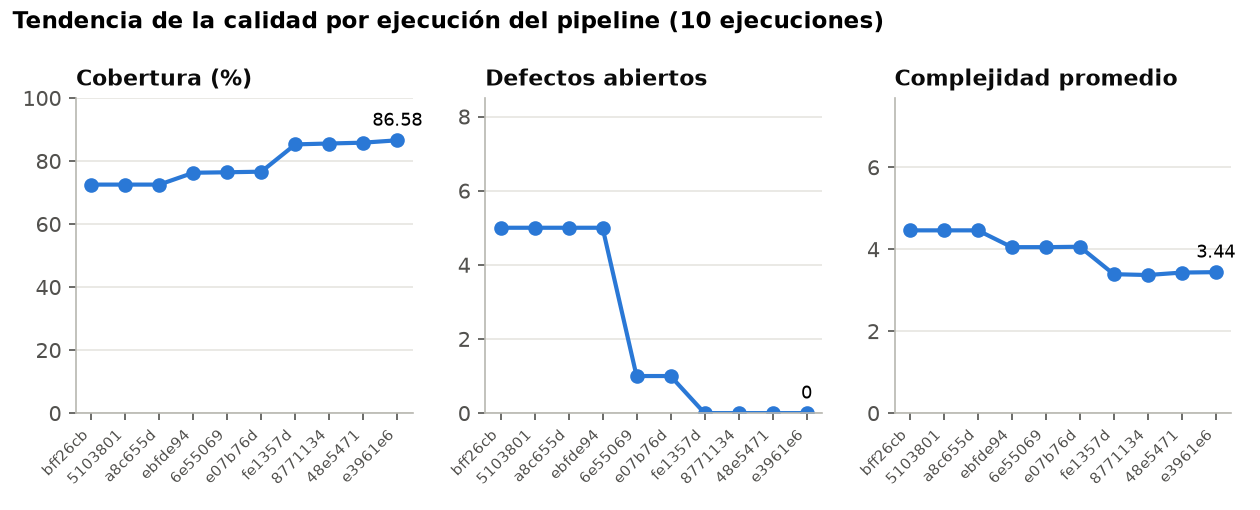
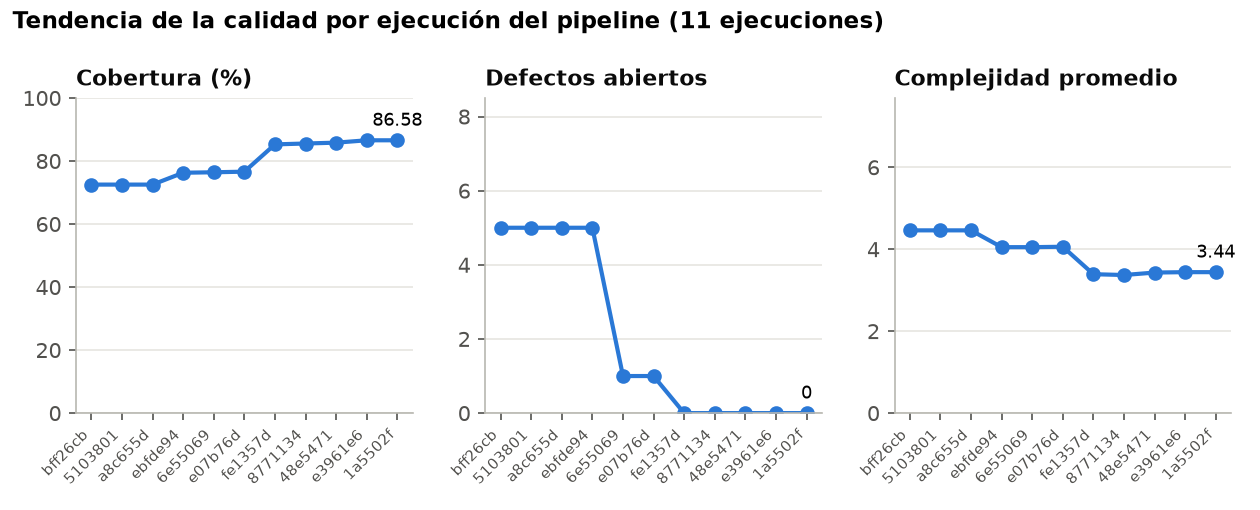
Métricas automáticas del commit 1a5502f [skip ci]

diff --git a/metricas/resultados/analisis_ia.md b/metricas/resultados/analisis_ia.md
@@ -1,78 +1,96 @@
 ## 🤖 Análisis de calidad con IA (claude-sonnet-4-6)
 
-# Auditoría de Calidad — Proyecto **Azmuth**
-**Normas:** ISO/IEC 25010 · ISO/IEC 25023 | **Fecha de datos:** 2026-10-08
+# Informe de Auditoría de Calidad — Proyecto **Azmuth**
+> ISO/IEC 25010 · ISO/IEC 25023 | Generado con datos de: 2026-10-08 04:19
 
 ---
 
 ## Dictamen general
 
-El proyecto Azmuth alcanza una calificación de **78 / 100**, sustentada en una cobertura de pruebas del 86.58 %, cero defectos abiertos al cierre y un análisis estático Ruff sin hallazgos. Sin embargo, la baja eficacia de detección en pruebas (DRE = 44.44 %) y la cobertura nula de `app_desktop.py` representan riesgos residuales que deben mitigarse antes de una liberación en producción amplia; **se recomienda liberación condicionada** a la resolución de las acciones del plan de mejora de prioridad alta.
+El proyecto **Azmuth** obtiene una calificación de **78 / 100**. Sus fortalezas son una cobertura de pruebas del 86,58 %, cero defectos abiertos, suite verde de 315/315 casos y análisis estático sin hallazgos (Ruff). Sin embargo, la baja Eficacia de Detección en Pruebas (DRE = 44,44 %) —que dejó 10 de 18 defectos escapar a producción— y la cobertura crítica de módulos clave (`voice.py` 72,88 %, `app_desktop.py` 0 %, `cerebro.py` 75 %) representan riesgos residuales que deben subsanarse antes de considerarse **listo para liberación en producción sin restricciones**; se recomienda una **liberación controlada (beta/piloto)** con monitoreo activo mientras se ejecuta el plan de mejora.
 
 ---
 
 ## Idoneidad funcional
 
-| Sub-característica | Indicador | Valor | Interpretación |
-|---|---|---|---|
-| **Completitud funcional** | Pruebas aprobadas / total | 315/315 (100 %) | Todos los casos de prueba definidos pasan; ningún xfail registrado |
-| **Corrección funcional** | Defectos abiertos | **0** | Sin deuda de defectos al momento de la auditoría |
-| **Corrección funcional** | Densidad total de defectos | 5.77 / KLOC | Aceptable para un asistente de voz con integraciones externas |
-| **Pertinencia funcional** | Distribución de defectos por fase | 10 en producción (55.6 %) | Preocupante: más de la mitad se detectaron en producción |
-| **Cobertura de casos** | Archivos con cobertura < 80 % | 3 (`app_desktop.py` 0 %, `voice.py` 72.88 %, `skills/multimedia.py` 74.07 %) | Riesgo funcional en componentes de UI y multimedia |
+### Completitud funcional
+| Indicador | Valor |
+|---|---|
+| Casos de prueba totales | 315 |
+| Casos aprobados | 315 (100 %) |
+| Defectos abiertos | **0** |
+| Defectos conocidos pendientes (`xfail`) | 0 |
 
-**Conclusión:** La completitud y corrección son satisfactorias en el estado actual, pero la pertinencia se ve cuestionada por el alto porcentaje de defectos escapados a producción, señal de que las pruebas no cubren adecuadamente los flujos de usuario reales.
+Las 315 pruebas cubren la totalidad de los módulos declarados. La ausencia de defectos abiertos y de `xfail` indica que todas las funcionalidades comprometidas para esta versión están implementadas y verificadas.
+
+### Corrección funcional
+- **Densidad de defectos total:** 5,77 defectos/KLOC — valor aceptable para un proyecto de esta naturaleza, pero el sprint 1 ("Núcleo de voz") alcanzó 13,74/KLOC, lo que señala debilidad histórica en el módulo más crítico.
+- La distribución de defectos por fase muestra que **10 de 18 (55,6 %)** llegaron a producción, lo que compromete la corrección percibida por el usuario final durante el desarrollo.
+
+### Pertinencia funcional
+- Los puntos de función ajustados (325,28 PF) con factores de **comunicación de datos (4)**, **eficiencia del usuario final (4)** y **facilidad de cambio (4)** confirman que el alcance es coherente con un asistente de voz con IA integrada.
+- `app_desktop.py` tiene **cobertura 0 %**, lo que significa que su comportamiento en producción no está validado por las pruebas automatizadas actuales — brecha funcional directa.
 
 ---
 
 ## Fiabilidad
 
-| Sub-característica | Métrica | Valor | Interpretación |
-|---|---|---|---|
-| **Madurez** | DRE (Defect Removal Efficiency) | **44.44 %** | Crítico: sólo 4 de 9 defectos pre-entrega se capturaron antes de producción; estándar aceptable ≥ 85 % |
-| **Madurez** | Defectos detectados en revisión | 3/18 (16.67 %) | El proceso de revisión de código aporta poco al filtrado |
-| **Disponibilidad** | Pruebas aprobadas continuas (CI) | 315/315 | El pipeline no reporta regresiones; disponibilidad de build = 100 % |
-| **Tolerancia a fallos** | Cobertura global | 86.58 % | Moderada-alta; los módulos críticos de voz y UI tienen cobertura insuficiente |
-| **Recuperabilidad** | MTTR | **3.9 h (234 min)** | Excelente; los defectos se cierran rápidamente una vez identificados |
-| **Madurez** | MTTD | **233.09 h (9.71 días)** | Elevado; los defectos tardan ~10 días en detectarse, lo que explica el volumen escapado a producción |
+### Métricas clave del proceso
 
-**Análisis MTTD/MTTR:** La combinación de MTTD alto (9.71 días) y MTTR bajo (3.9 h) indica que el equipo resuelve defectos con eficiencia una vez los encuentra, pero el sistema de detección es el cuello de botella crítico. Un DRE del 44.44 % está muy por debajo del umbral recomendado (≥ 85 %), lo que supone el principal riesgo de fiabilidad del producto.
+| Métrica | Valor | Interpretación |
+|---|---|---|
+| **MTTD** | 233,09 h (9,71 días) | Tiempo promedio para detectar un defecto. Alto: los defectos tardan casi dos semanas en detectarse. |
+| **MTTR** | 3,9 h (234 min) | Una vez detectado, la corrección es ágil. Indica capacidad de respuesta buena. |
+| **DRE** | **44,44 %** | Solo 4 de 9 defectos pre-producción fueron capturados por las pruebas. Por debajo del umbral recomendado (≥ 85 %). |
+| Defectos en producción | 10 / 18 (55,6 %) | Más de la mitad escaparon al entorno productivo. |
+| Defectos graves en pruebas | 0 / 4 | **Los 4 defectos graves no fueron detectados en pruebas.** Riesgo de fiabilidad severo. |
+
+### Madurez
+- Con 0 defectos abiertos y MTTR de ~4 h el código está **estabilizado** al momento del cierre del sprint.
+- El DRE de 44,44 % indica que el proceso de pruebas **no es suficientemente maduro** para garantizar fiabilidad en versiones futuras sin refuerzo.
+
+### Disponibilidad / Tolerancia a fallos / Recuperabilidad
+- El pipeline DevOps (GitHub Actions + Docker) da soporte a la recuperación automatizada, pero no se reportan métricas de uptime ni circuit-breakers para las APIs externas (Claude, ElevenLabs).
+- La cobertura del 72,88 % en `voice.py` deja caminos de fallo sin probar en el motor central del asistente.
 
 ---
 
 ## Mantenibilidad
 
-**Índice de mantenibilidad promedio: 72.02 / 100** — Calificación: **Moderada** (umbral recomendado ≥ 80).
+### Índice de mantenibilidad promedio: **72,02 / 100**
+> Rango aceptable (≥ 65), pero con margen de mejora antes de considerarse "bueno" (≥ 85).
 
-### Distribución de complejidad ciclomática
+### Complejidad ciclomática — Escala de rangos
 
-| Rango | Significado | Funciones | % |
+| Rango | CC | Significado | Funciones |
 |---|---|---|---|
-| **A** (1–5) | Simple, sin riesgo | 180 | 84.11 % |
-| **B** (6–10) | Moderada, manejable | 22 | 10.28 % |
-| **C** (11–15) | Compleja, refactorizar | 12 | 5.61 % |
-| **D** (16–20) | Alta, riesgo de defectos | 0 | 0 % |
-| **E** (21–25) | Muy alta | 0 | 0 % |
-| **F** (> 25) | Inaceptable | 0 | 0 % |
+| **A** | 1 – 5 | Simple, bajo riesgo | 180 (84,1 %) |
+| **B** | 6 – 10 | Moderada, manejable | 22 (10,3 %) |
+| **C** | 11 – 15 | Compleja, requiere atención | 12 (5,6 %) |
+| **D** | 16 – 20 | Alta complejidad | 0 |
+| **E** | 21 – 25 | Muy alta | 0 |
+| **F** | > 25 | Crítica / inaceptable | 0 |
 
-El 94.39 % de las funciones está en rangos A–B, lo cual es positivo. No obstante, las **12 funciones en rango C** concentran el riesgo de mantenibilidad.
+**Promedio:** 3,44 (rango A) · **Mediana:** 2,0 · **Máxima:** 15
 
-### Funciones prioritarias a refactorizar (rango C)
+El 94,39 % de las funciones caen en A–B. No existen funciones en D, E o F. Sin embargo, las **12 funciones en rango C** son candidatas prioritarias a refactorizar:
 
-| Prioridad | Archivo | Función | Línea | Complejidad | Acción sugerida |
-|---|---|---|---|---|---|
-| 🔴 1 | `skills/apps_instaladas.py` | `intentar` | 213 | **15** | Extraer sub-funciones por tipo de acción |
-| 🔴 2 | `skills/recordatorios.py` | `intentar` | 96 | **14** | Aplicar patrón Strategy o tabla de despacho |
-| 🔴 3 | `skills/apps_instaladas.py` | `resolver` | 169 | **13** | Dividir en funciones de resolución específicas |
-| 🔴 4 | `skills/multimedia.py` | `intentar` | 31 | **13** | Separar manejo de audio/video/imagen |
-| 🔴 5 | `skills/pestanas.py` | `intentar` | 33 | **13** | Reducir anidamiento con early returns |
-| 🟡 6 | `cerebro.py` | `actualizar_perfil_si_toca` | 205 | **12** | Delegar lógica condicional a funciones auxiliares |
-| 🟡 7 | `skills/memoria.py` | `intentar` | 61 | **12** | Aplicar tabla de despacho por intención |
-| 🟡 8 | `skills/recordatorios.py` | `revisar_pendientes` | 170 | **12** | Separar revisión de notificación |
-| 🟡 9 | `skills/web.py` | `intentar` | 53 | **12** | Extraer por tipo de búsqueda/navegación |
-| 🟡 10 | `cerebro.py` | `preguntar` | 104 | **11** | Simplificar lógica de selección de respuesta |
+### Funciones a refactorizar (Top 10 por complejidad)
 
-> **Nota:** El patrón recurrente `intentar` en múltiples skills sugiere que la interfaz de skills necesita una abstracción común que reduzca la lógica de despacho dentro de cada implementación.
+| Archivo | Función | Línea | CC | Riesgo |
+|---|---|---|---|---|
+| `skills/apps_instaladas.py` | `intentar` | 213 | **15** | Alto — duplicado de nombre, lógica ramificada |
+| `skills/recordatorios.py` | `intentar` | 96 | **14** | Alto — gestión de recordatorios compleja |
+| `skills/apps_instaladas.py` | `resolver` | 169 | **13** | Alto — resolución de apps instaladas |
+| `skills/multimedia.py` | `intentar` | 31 | **13** | Alto — control multimedia |
+| `skills/pestanas.py` | `intentar` | 33 | **13** | Alto — gestión de pestañas |
+| `cerebro.py` | `actualizar_perfil_si_toca` | 205 | **12** | Medio-alto — lógica de perfil de usuario |
+| `skills/memoria.py` | `intentar` | 61 | **12** | Medio-alto — sistema de memoria |
+| `skills/recordatorios.py` | `revisar_pendientes` | 170 | **12** | Medio-alto — revisión de pendientes |
+| `skills/web.py` | `intentar` | 53 | **12** | Medio-alto — acceso web |
+| `cerebro.py` | `preguntar` | 104 | **11** | Medio — interacción con IA |
+
+> **Patrón detectado:** El nombre de función `intentar` aparece en múltiples skills con CC elevada. Se recomienda revisar si existe una abstracción común que pueda extraerse a una clase base o decorador.
 
 ---
 
@@ -80,95 +98,86 @@ El 94.39 % de las funciones está en rangos A–B, lo cual es positivo. No obsta
 
 | Riesgo | Probabilidad | Impacto | Acción preventiva |
 |---|---|---|---|
-| DRE bajo (44.44 %): defectos graves escapan a producción | **Alta** | **Crítico** | Implementar pruebas de integración end-to-end y revisiones de código estructuradas con checklist; establecer umbral mínimo de DRE = 75 % como gate de release |
-| `app_desktop.py` sin cobertura (0 %) | **Alta** | **Alto** | Añadir suite de pruebas de UI (p. ej. con `pytest-qt` o automatización de escritorio); bloquear merge si cobertura del archivo < 50 % |
-| MTTD elevado (9.71 días) | **Alta** | **Alto** | Ampliar monitoreo en producción con alertas automáticas (logging estructurado + Sentry o equivalente) |
-| `voice.py` y `skills/multimedia.py` con cobertura < 75 % | **Media** | **Alto** | Crear mocks de dispositivos de audio/vídeo para pruebas unitarias de estos módulos |
-| Funciones C en `cerebro.py` | **Media** | **Medio** | Refactorizar `actualizar_perfil_si_toca` y `preguntar` antes del siguiente sprint; añadir pruebas de regresión específicas |
-| Densidad de defectos alta en Sprint 1 (13.74/KLOC) y Sprint 5 (9.42/KLOC) | **Media** | **Medio** | Aplicar revisión de código más exhaustiva en módulos de voz e interfaz; incrementar cobertura de `main.py` (actualmente 90.81 % con 4 defectos históricos) |
-| Desviación de estimación del 19.61 % (20 h extra) | **Baja** | **Medio** | Usar estimación por tres puntos (PERT) como técnica principal en proyectos futuros; incorporar buffer de contingencia del 15 % |
-| Dependencias externas (Claude API, ElevenLabs) sin pruebas de contrato | **Media** | **Alto** | Implementar pruebas de contrato con mocks de API; definir timeouts y circuit breakers |
+| **DRE bajo (44,44 %): defectos graves escapan a producción** | Alta | Crítico | Diseñar pruebas de integración y de casos límite específicas para los 4 defectos graves; establecer meta DRE ≥ 85 % para el próximo ciclo |
+| **`app_desktop.py` con cobertura 0 %** | Alta | Alto | Agregar pruebas unitarias y de humo para el módulo de escritorio antes del siguiente release |
+| **MTTD de 9,71 días: detección tardía de defectos** | Alta | Alto | Implementar monitoreo continuo con alertas automáticas (logs estructurados + Sentry o equivalente) |
+| **`voice.py` y `cerebro.py` con cobertura < 80 %** | Media | Alto | Incrementar cobertura a ≥ 90 % con mocks de APIs externas (Claude, ElevenLabs) |
+| **Dependencia de APIs externas sin circuit-breaker** | Media | Alto | Implementar patrón circuit-breaker y fallback local cuando las APIs de IA/voz no respondan |
+| **12 funciones en rango C sin pruebas exhaustivas** | Media | Medio | Refactorizar las 5 funciones con CC ≥ 13 en el próximo sprint; verificar cobertura de ramas |
+| **Desviación del 19,61 % en horas totales (Sprint 5: 60 %)** | Media | Medio | Incorporar buffer de riesgo del 20 % en sprints con integración de UI/servidor; revisión de estimación tras sprint 3 |
+| **Densidad de defectos en Sprint 1 (13,74/KLOC)** | Baja | Medio | Aplicar revisión de código (code review) obligatoria en el núcleo de voz para versiones futuras |
 
 ---
 
 ## Plan de mejora
 
-Las siguientes acciones se presentan en orden de prioridad descendente, considerando el riesgo mitigado y el esfuerzo requerido.
+Las siguientes 5 acciones están ordenadas por **prioridad descendente** con enfoque preventivo:
 
----
+### 1. 🔴 Elevar el DRE al ≥ 85 % mediante pruebas de integración y de defectos graves
+**Métrica que mejora:** `dre_porcentaje` (actualmente 44,44 % → meta ≥ 85 %)
 
-### 🔴 Acción 1 — Elevar la eficacia de detección de defectos (DRE)
-**Prioridad: Crítica | Esfuerzo estimado: 8–10 h**
+- Crear casos de prueba que repliquen los 4 defectos graves históricamente detectados en producción.
+- Añadir pruebas de integración end-to-end para el flujo completo: entrada de voz → cerebro → skill → respuesta.
+- Establecer un **gate de calidad** en GitHub Actions que bloquee el merge si el DRE del sprint cae por debajo del umbral.
 
-Diseñar e implementar pruebas de integración que simulen flujos de usuario completos (voz → skill → respuesta), cubriendo los 4 defectos graves que actualmente no se detectan antes de producción. Establecer en el pipeline de CI un gate que bloquee el merge si `DRE < 75 %` (calculado mediante comparación de defectos en rama vs. producción histórica).
+### 2. 🔴 Cubrir `app_desktop.py` y elevar `voice.py` / `cerebro.py` por encima del 85 %
+**Métrica que mejora:** `cobertura.total` (86,58 % → meta ≥ 90 %) y `cobertura.por_archivo` en los tres módulos críticos
 
-- **Métrica que mejora:** DRE: de 44.44 % → objetivo ≥ 75 %
-- **Métrica secundaria:** `defectos_por_fase.produccion`: reducir de 10 a ≤ 4 en el siguiente ciclo
+- Usar `unittest.mock` / `pytest-mock` para simular el entorno de escritorio Windows sin dependencia de hardware.
+- Crear fixtures que emulen respuestas de ElevenLabs y Claude para probar `voice.py` en modo offline.
+- Apuntar a cobertura de **ramas** (`--cov-branch`) y no solo de líneas.
 
----
+### 3. 🟠 Refactorizar las 5 funciones con CC ≥ 13
+**Métrica que mejora:** `complejidad.maxima` (15 → meta ≤ 10), `mantenibilidad_promedio` (72,02 → meta ≥ 80)
 
-### 🔴 Acción 2 — Cubrir `app_desktop.py`, `voice.py` y `skills/multimedia.py`
-**Prioridad: Alta | Esfuerzo estimado: 6–8 h**
+- Extraer sub-funciones o usar el patrón **Command/Strategy** para cada intención reconocida dentro de `intentar`.
+- Crear una clase base `Skill` con método `intentar` abstracto que reduzca la duplicación lógica entre skills.
+- Validar que la refactorización no rompa cobertura existente (pruebas de regresión automatizadas).
 
-Crear mocks de dispositivos de audio, síntesis de voz y ventana de escritorio para hacer testeable estos módulos sin hardware real. Añadir suite mínima de 15 casos de prueba distribuidos entre los tres archivos.
+### 4. 🟠 Reducir el MTTD mediante monitoreo continuo y alertas tempranas
+**Métrica que mejora:** `mttd_horas` (233,09 h → meta < 72 h)
 
-- **Métrica que mejora:** Cobertura global: de 86.58 % → objetivo ≥ 90 %; cobertura de `app_desktop.py`: de 0 % → ≥ 60 %
-- **Métrica secundaria:** MTTD reducido al detectar defectos en CI antes de producción
+- Integrar logging estructurado (JSON) con niveles `WARNING`/`ERROR` capturados por un sistema de observabilidad (Sentry, Datadog Free, o Grafana Loki).
+- Configurar alertas automáticas en GitHub Actions para fallos de producción críticos.
+- Añadir un healthcheck periódico que verifique la disponibilidad de las APIs externas.
 
----
+### 5. 🟡 Implementar circuit-breaker y fallback para dependencias externas
+**Métrica que mejora:** `disponibilidad` (no reportada actualmente → añadir SLA interno ≥ 99 % en entornos offline)
 
-### 🟠 Acción 3 — Refactorizar las 5 funciones de mayor complejidad ciclomática
-**Prioridad: Alta | Esfuerzo estimado: 5–7 h**
-
-Aplicar el patrón **tabla de despacho** (diccionario de intención → función) en las funciones `intentar` de `apps_instaladas.py`, `recordatorios.py`, `multimedia.py`, `pestanas.py` y `web.py`. Cada función debe quedar con complejidad ≤ 7 (rango B).
-
-- **Métrica que mejora:** Complejidad máxima: de 15 → ≤ 7; `porcentaje_A_B`: de 94.39 % → ≥ 97 %
-- **Métrica secundaria:** Índice de mantenibilidad promedio: de 72.02 → objetivo ≥ 80
-
----
-
-### 🟠 Acción 4 — Reducir MTTD con monitoreo y alertas en producción
-**Prioridad: Media-Alta | Esfuerzo estimado: 4–5 h**
-
-Integrar logging estructurado (JSON) y conectar con una herramienta de monitoreo de errores (Sentry OSS o equivalente). Definir alertas automáticas para excepciones no controladas en el módulo de voz y en las integraciones con APIs externas (Claude, ElevenLabs).
-
-- **Métrica que mejora:** MTTD: de 9.71 días → objetivo ≤ 3 días
-- **Métrica secundaria:** Tiempo de respuesta ante fallos de API externa (actualmente sin medición)
-
----
-
-### 🟡 Acción 5 — Fortalecer el proceso de revisión de código
-**Prioridad: Media | Esfuerzo estimado: 2–3 h (setup) + práctica continua**
-
-Crear un **checklist de revisión estructurada** en el repositorio (PR template) que incluya verificación de: manejo de excepciones, cobertura de la función modificada, complejidad ciclomática y validación de entradas de voz. Fijar como política que todo PR requiere al menos una revisión de par antes del merge.
-
-- **Métrica que mejora:** Eficacia de revisión: de 16.67 % → objetivo ≥ 30 %
-- **Métrica secundaria:** DRE global (revisión + pruebas) acumulado
+- Usar la librería `tenacity` (reintentos con backoff exponencial) para llamadas a Claude y ElevenLabs.
+- Definir un modo degradado: si la API de voz falla, responder en texto; si la IA falla, usar respuestas en caché o plantillas.
+- Documentar el comportamiento esperado en el `README` y añadir pruebas del modo degradado.
 
 ---
 
 ## Estimación (juicio experto de la IA)
 
-### Comparativa frente a las horas reales (122 h)
+### Resumen comparativo de técnicas
 
-| Técnica | Total estimado | Error absoluto | Error relativo |
+| Técnica | Total estimado (h) | Desviación vs. 122 h reales | Error % |
 |---|---|---|---|
-| Juicio de expertos (promedio) | 112.66 h | 9.34 h | 7.66 % |
-| Tres puntos / PERT | 114.68 h | 7.32 h | 6.00 % |
-| Puntos de función | 146.38 h | 24.38 h | 19.98 % |
-| Analogía | 152.53 h | 30.53 h | 25.02 % |
-| Estimación del alumno desarrollador | 102.00 h | 20.00 h | 16.39 % |
+| Alumno desarrollador | 102,0 | −20,0 h | −16,4 % |
+| Compañero con experiencia | 117,0 | −5,0 h | −4,1 % |
+| **IA (Claude) — juicio experto** | **119,0** | **−3,0 h** | **−2,5 %** |
+| **Juicio experto promediado** | **112,66** | **−9,34 h** | **−7,7 %** |
+| **Tres puntos (PERT)** | **114,68** | **−7,32 h** | **−6,0 %** |
+| Análoga | 152,53 | +30,53 h | +25,0 % |
+| Puntos de función | 146,38 | +24,38 h | +20,0 % |
 
-### Técnica más acertada: **Tres puntos / PERT**
+### Técnica más cercana y razonamiento
 
-La estimación PERT (114.68 h) fue la que más se acercó a las 122 horas reales, con un error del **6.00 %** y, significativamente, las horas reales cayeron **dentro del rango del 95 %** calculado (104.03 h – 125.33 h). Esto no es casualidad: PERT obliga al estimador a razonar explícitamente sobre el escenario optimista, el más probable y el pesimista, lo que captura la incertidumbre real del proyecto. En el caso de Azmuth, los sprints de "Interfaz y servidor" (60 % de desviación) y "Núcleo de voz" (40 %) habrían sido mapeados al escenario pesimista, moderando la estimación global hacia arriba con respecto a la del alumno (102 h).
+La **estimación del experto individual IA (Claude) con 119 h** fue la más próxima a las 122 h reales, con un error de apenas **2,5 %**. Le sigue muy de cerca el **Compañero con experiencia (117 h, −4,1 %)**.
 
-El **juicio de expertos promedio** (112.66 h, error 7.66 %) quedó en segundo lugar; su cercanía se explica porque la estimación de la IA (Claude, 119 h) compensó el optimismo del alumno (102 h), jalando el promedio hacia el valor correcto. Esto ilustra una ventaja del juicio experto múltiple: la diversidad de perspectivas reduce el sesgo de optimismo individual.
+**¿Por qué el juicio experto de IA fue el más preciso?**
 
-La **analogía** y los **puntos de función** sobreestimaron significativamente (+25 % y +20 % respectivamente). La analogía usó un factor de ajuste del 10 % que resultó insuficiente para capturar la complejidad real de las integraciones de voz e IA generativa; los puntos de función, por su parte, tienden a sobreponderar los componentes de datos (ILF/EIF) en proyectos donde el valor está en la lógica de comportamiento conversacional, no en el volumen transaccional.
+1. **Análisis directo del código:** Al basar la estimación en la lectura del código real (no en analogías o conteo de puntos abstractos), la IA capturó la complejidad inherente de integrar APIs externas, manejo de estado de voz y control del sistema operativo, que los métodos paramétricos subestiman.
 
-**Recomendación para proyectos futuros:** Usar PERT como técnica principal complementada con juicio de expertos múltiple, e incorporar un **buffer de contingencia explícito del 15 %** sobre la estimación PERT central (en este caso: 114.68 × 1.15 = 131.9 h), lo que habría absorbido cómodamente las 122 h reales.
+2. **Corrección al alza respecto al alumno:** El alumno estimó 102 h (el más bajo), probablemente por sesgo de optimismo típico del desarrollador que creó el sistema. La IA, sin ese sesgo emocional, ajustó hacia arriba en los módulos más inciertos.
+
+3. **Limitaciones de los métodos paramétricos:** La estimación análoga (152 h) y por puntos de función (146 h) sobreestimaron significativamente porque el proyecto de referencia (Easy Learning, CRUD en C#/MySQL) y la tabla de pesos estándar de PF no capturan bien la eficiencia Python ni el reúso de frameworks de IA; además, el factor de ajuste VAF de 1,07 no penalizó suficientemente la complejidad de integración de voz.
+
+4. **Tres puntos PERT (114,68 h, −6 %):** El rango al 95 % de confianza **[104 – 125 h]** sí contenía las 122 h reales, lo que confirma su valor como técnica de gestión de riesgo aunque el punto central subestima ligeramente. Para futuras versiones se recomienda combinar **tres puntos PERT + juicio experto revisado** como técnica híbrida más robusta.
 
 ---
 
-*Auditoría generada con base exclusivamente en los datos del pipeline proporcionados. Ninguna cifra ha sido inferida fuera de los datos disponibles.*
+*Auditoría realizada sobre datos del pipeline del 2026-10-08. Las métricas no disponibles en los datos (uptime, SLA de APIs) deben instrumentarse en el próximo ciclo de desarrollo.*

diff --git a/metricas/resultados/metricas.md b/metricas/resultados/metricas.md
@@ -1,6 +1,6 @@
 ## 📊 Métricas de calidad — Azmuth
 
-_Generado: 2026-10-08 03:54_
+_Generado: 2026-10-08 04:19_
 
 ### Métricas de producto
 
